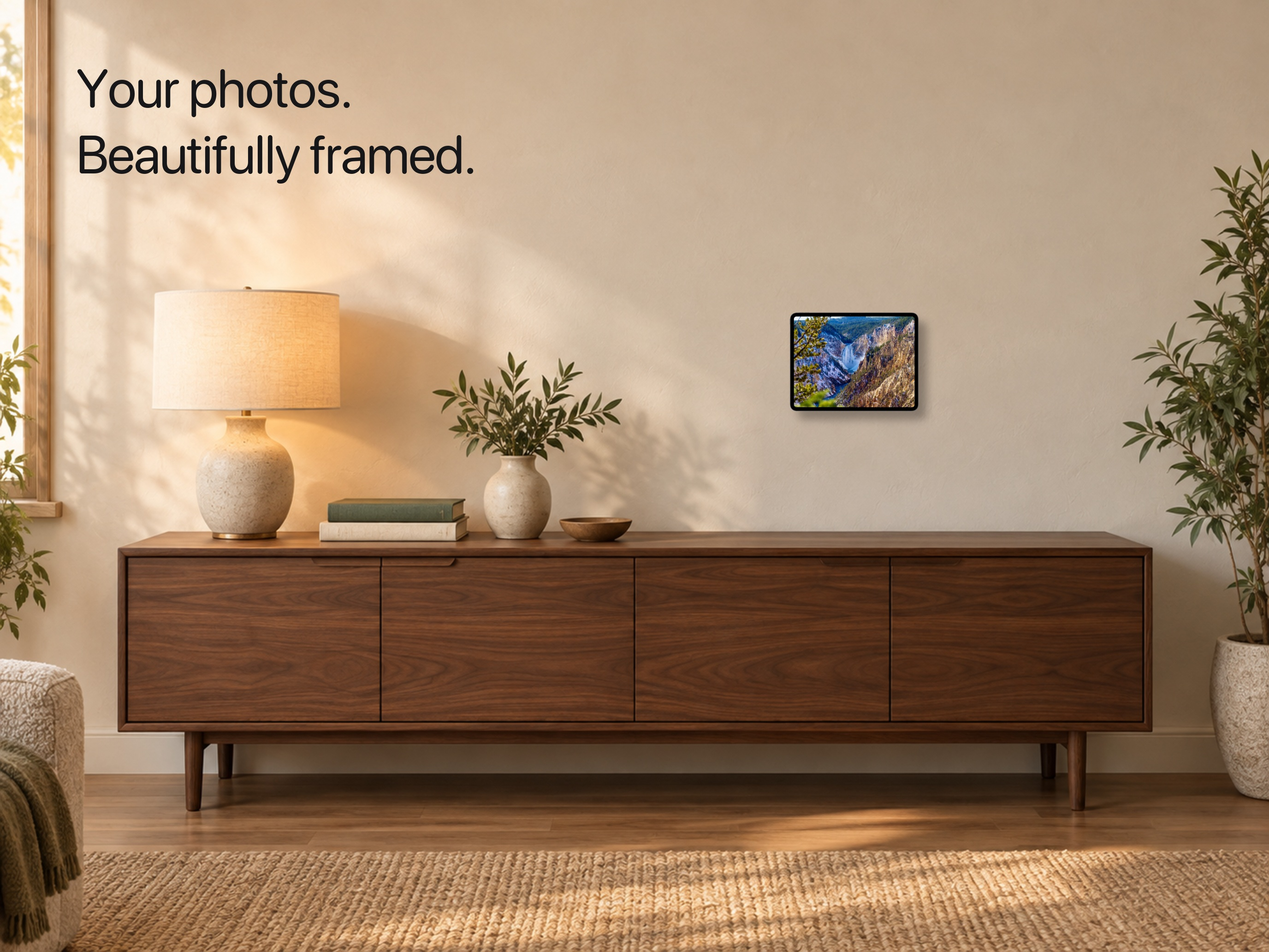
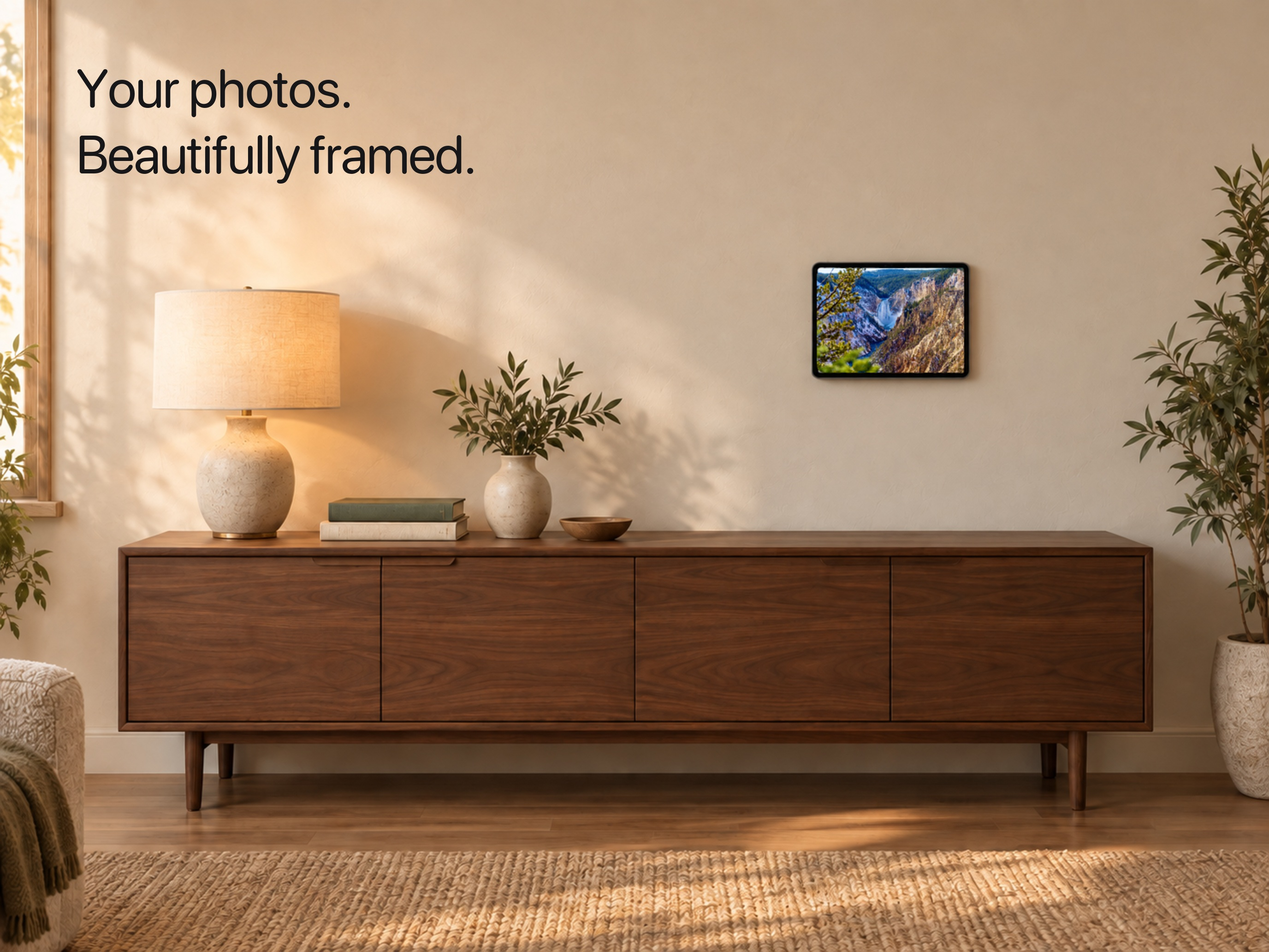
Integrate iPad lifestyle scenes with image generation

diff --git a/AppStore/Screenshots/README.md b/AppStore/Screenshots/README.md
@@ -53,22 +53,32 @@ review contact sheet at
 
 Treatment order:
 
-1. Realistically scaled wall use with the licensed official iPad bezel and the
-   bundled Yellowstone Falls photo.
-2. Realistically scaled table use with the licensed official iPad bezel and a
-   four-photo layout made from bundled sample photos.
+1. Realistically scaled wall use created from the licensed official iPad bezel
+   reference and the bundled Yellowstone Falls photo.
+2. Realistically integrated table use with the same device and photo sources.
 3. Automatic album choice.
 4. On-device smart highlights.
 5. Review before display.
 6. No account, advertising, or tracking.
 
-The generated room backgrounds are retained under `Sources/`. They contain no
-device or app UI. The compositing script places the existing licensed Apple
-bezel derivatives over those backgrounds at measured scale. In both scenes the
-13-inch iPad is visibly narrower than the nearby lamp shade. Every screen uses
-FrameWink's bundled sample photos or native Simulator captures; image generation
-is limited to the empty rooms. The standalone Apple Design Resources file is
-not stored in this repository.
+The generated empty rooms and selected integrated scenes are retained under
+`Sources/`. For each lifestyle scene, image generation received an empty room
+and the licensed official iPad bezel derivative as references, then integrated
+the device with the room's perspective, lighting, stand, and shadows. The wall
+candidate was selected from several results so the 13-inch iPad is visibly
+smaller than the nearby lamp shade. The deterministic generator replaces the
+interpreted display with FrameWink's exact bundled Yellowstone Falls source,
+then adds the marketing copy. The remaining cards use native Simulator
+captures. The standalone Apple Design Resources file is not stored in this
+repository.
+
+Selected integration prompts were intentionally short:
+
+- Wall: `Place the provided 13-inch iPad naturally mounted on this wall. Make
+  it clearly smaller than the lamp shade and look like a real interior
+  photograph.`
+- Table: `Place the provided iPad naturally on the table in this room using a
+  simple stand. Make it look like a real interior photograph.`
 
 ## Source library
 

diff --git a/docs/PLAN.md b/docs/PLAN.md
@@ -1969,14 +1969,17 @@ Reduce Motion, and finger-following swipe quality remain human device checks.
   exposed too many settings details. New concept mocks use everyday furniture,
   lamps, books, and cups as scale references and shift the story to wall use,
   tabletop use, album choice, private curation, review, and simple playback.
-  The final candidate uses generated empty rooms only. Device bezels, screens,
-  and every displayed photo come from licensed repository assets, native
-  FrameWink captures, and the app's bundled sample-photo catalog.
+  The final candidate uses a two-stage lifestyle workflow: image generation
+  integrates the licensed device reference into an empty room, then the local
+  generator restores the exact bundled Yellowstone Falls photo and adds the
+  headline. Several wall candidates were evaluated; the selected result keeps
+  the iPad smaller than the nearby lamp shade. The remaining cards use native
+  FrameWink captures and the app's bundled sample-photo catalog.
 - The affected 47-test set passed on iPad (A16) and iPhone 17 Pro Max, iOS
   27.0 Simulators, with no failures, skips, or runtime warnings. Final
   screenshot generation is complete at 2752 x 2064 with six JPEGs and no
   alpha. Physical-device pause acceptance and App Store Connect replacement
-  remain pending. Active time so far: approximately 0.8 hours.
+  remain pending. Active time so far: approximately 1.1 hours.
 
 ## Timebox rule
 

diff --git a/docs/TESTING.md b/docs/TESTING.md
@@ -3181,13 +3181,13 @@ git diff --check
 
 - The deterministic generator produced six JPEG screenshots at exactly
   2752 x 2064 with no alpha and rejected any other count or dimensions.
-- The wall iPad is approximately 67% of the nearby lamp-shade width. The
-  tabletop scene uses the same physical relationship, with books and a cup as
-  additional scale references.
-- Image generation supplied only the two empty room backgrounds. The device
-  images use the repository's licensed Apple bezel derivatives, and their
-  screens use FrameWink's exact bundled Yellowstone Falls, San Francisco,
-  Golden Gate, and Antelope Canyon sample photography.
+- Multiple wall and tabletop integrations were generated from an empty room
+  and the licensed official iPad bezel derivative. The selected wall result
+  keeps the iPad visibly smaller than the nearby lamp shade; the selected table
+  result has coherent perspective, contact shadows, and a supported stand.
+- The generator replaces the model-interpreted display in both lifestyle
+  scenes with the exact bundled Yellowstone Falls source before resizing and
+  adding typography.
 - The remaining cards use native FrameWink Simulator captures for album choice,
   smart layouts, and suggestion review. No storage, scheduling, purchase, or
   setup-detail screen appears in the treatment.
